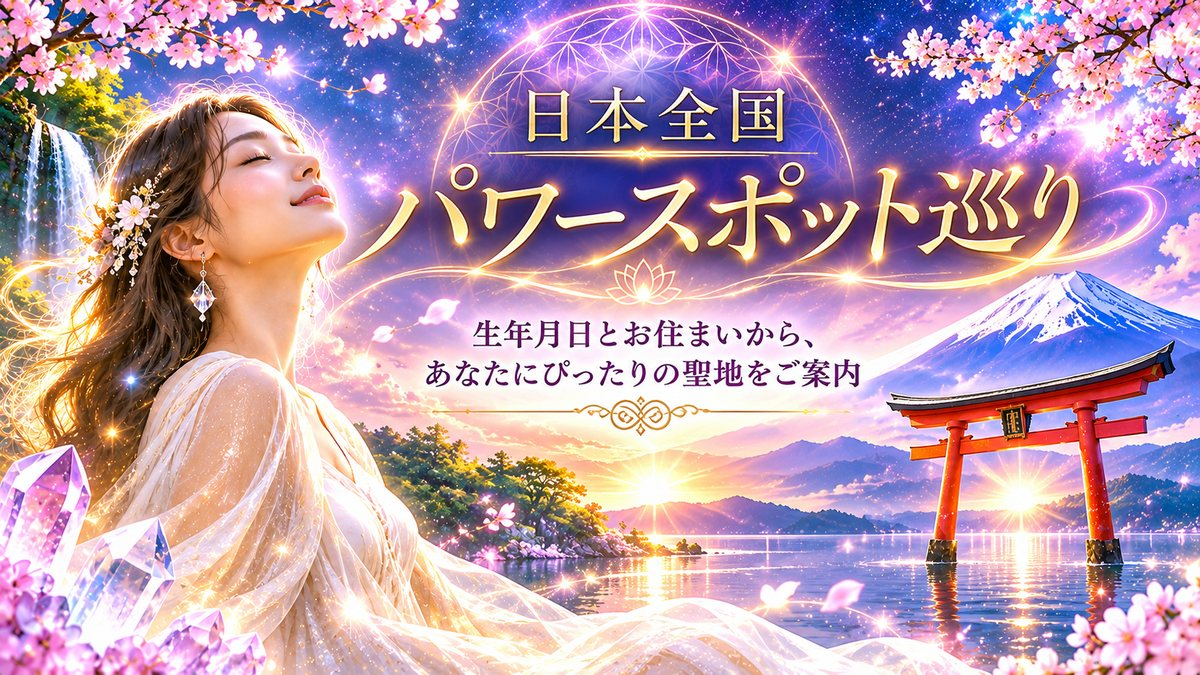
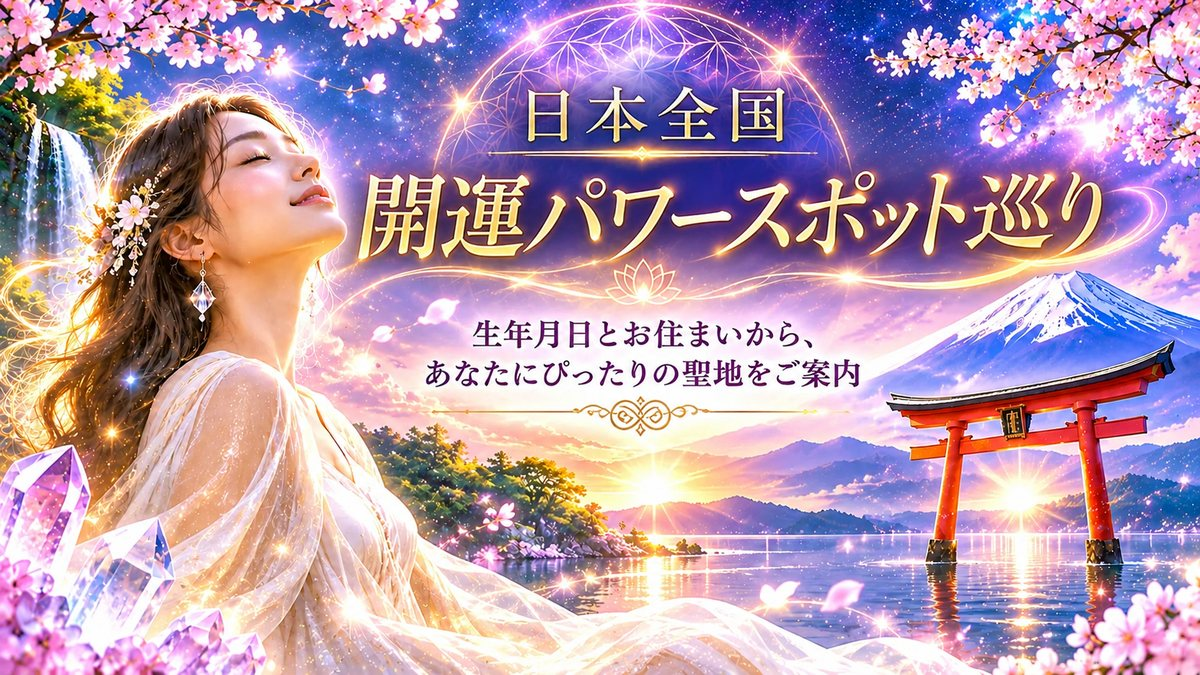
トップ画像を「日本全国 開運パワースポット巡り」に差し替え
Claude-Session: https://claude.ai/code/session_01WnJ4nPmu7YrbYzHH9VRETd

diff --git a/index.html b/index.html
@@ -15,7 +15,7 @@
 <meta property="og:image" content="https://motonory-a.github.io/japan-power-spots/assets/img/hero-1200.jpg">
 <meta property="og:image:width" content="1200">
 <meta property="og:image:height" content="675">
-<meta property="og:image:alt" content="日本全国パワースポット巡り　生年月日とお住まいから、あなたにぴったりの聖地をご案内">
+<meta property="og:image:alt" content="日本全国 開運パワースポット巡り　生年月日とお住まいから、あなたにぴったりの聖地をご案内">
 <meta property="og:locale" content="ja_JP">
 <meta name="twitter:card" content="summary_large_image">
 <link rel="icon" href="assets/img/favicon.svg" type="image/svg+xml">
@@ -45,7 +45,7 @@
   <h1 class="hero-title">
     <picture>
       <source type="image/webp" srcset="assets/img/hero-800.webp 800w, assets/img/hero-1200.webp 1200w, assets/img/hero-1672.webp 1672w" sizes="(max-width: 1240px) 100vw, 1240px">
-      <img class="hero-img" src="assets/img/hero-1200.jpg" srcset="assets/img/hero-800.jpg 800w, assets/img/hero-1200.jpg 1200w, assets/img/hero-1672.jpg 1672w" sizes="(max-width: 1240px) 100vw, 1240px" width="1672" height="941" fetchpriority="high" decoding="async" alt="日本全国パワースポット巡り　生年月日とお住まいから、あなたにぴったりの聖地をご案内">
+      <img class="hero-img" src="assets/img/hero-1200.jpg" srcset="assets/img/hero-800.jpg 800w, assets/img/hero-1200.jpg 1200w, assets/img/hero-1672.jpg 1672w" sizes="(max-width: 1240px) 100vw, 1240px" width="1672" height="941" fetchpriority="high" decoding="async" alt="日本全国 開運パワースポット巡り　生年月日とお住まいから、あなたにぴったりの聖地をご案内">
     </picture>
   </h1>
   <div class="hero-copy">

diff --git a/tests/e2e/run-phase2.js b/tests/e2e/run-phase2.js
@@ -42,7 +42,7 @@ async function route(page) {
     const img = await page.$eval('.hero-img', (i) => ({ w: i.naturalWidth, alt: i.alt, top: i.getBoundingClientRect().top }));
     check('メイン画像が読み込まれる', img.w > 0, 'naturalWidth=' + img.w);
     check('メイン画像が画面の上部（上にリンクのコピーだけ）', img.top < 60, 'top=' + Math.round(img.top));
-    check('見出し(h1)がサイト名として読み上げられる', /日本全国パワースポット巡り/.test(img.alt) && await page.$eval('h1', (h) => !!h.querySelector('img')));
+    check('見出し(h1)がサイト名として読み上げられる', /開運パワースポット巡り/.test(img.alt) && await page.$eval('h1', (h) => !!h.querySelector('img')));
     check('トップコピー', (await page.textContent('.hero-catch')).replace(/\s/g, '') === '次のお休み、どこに行こうか？運命の聖地を簡単検索。');
     check('サブコピー', (await page.textContent('.hero-sub')).replace(/\s/g, '') === 'あなたの毎日に、小さな奇跡とときめくお出かけを。');
     check('メインボタンの文言', (await page.textContent('.hero-cta')).trim() === '私だけの聖地を見つける');
